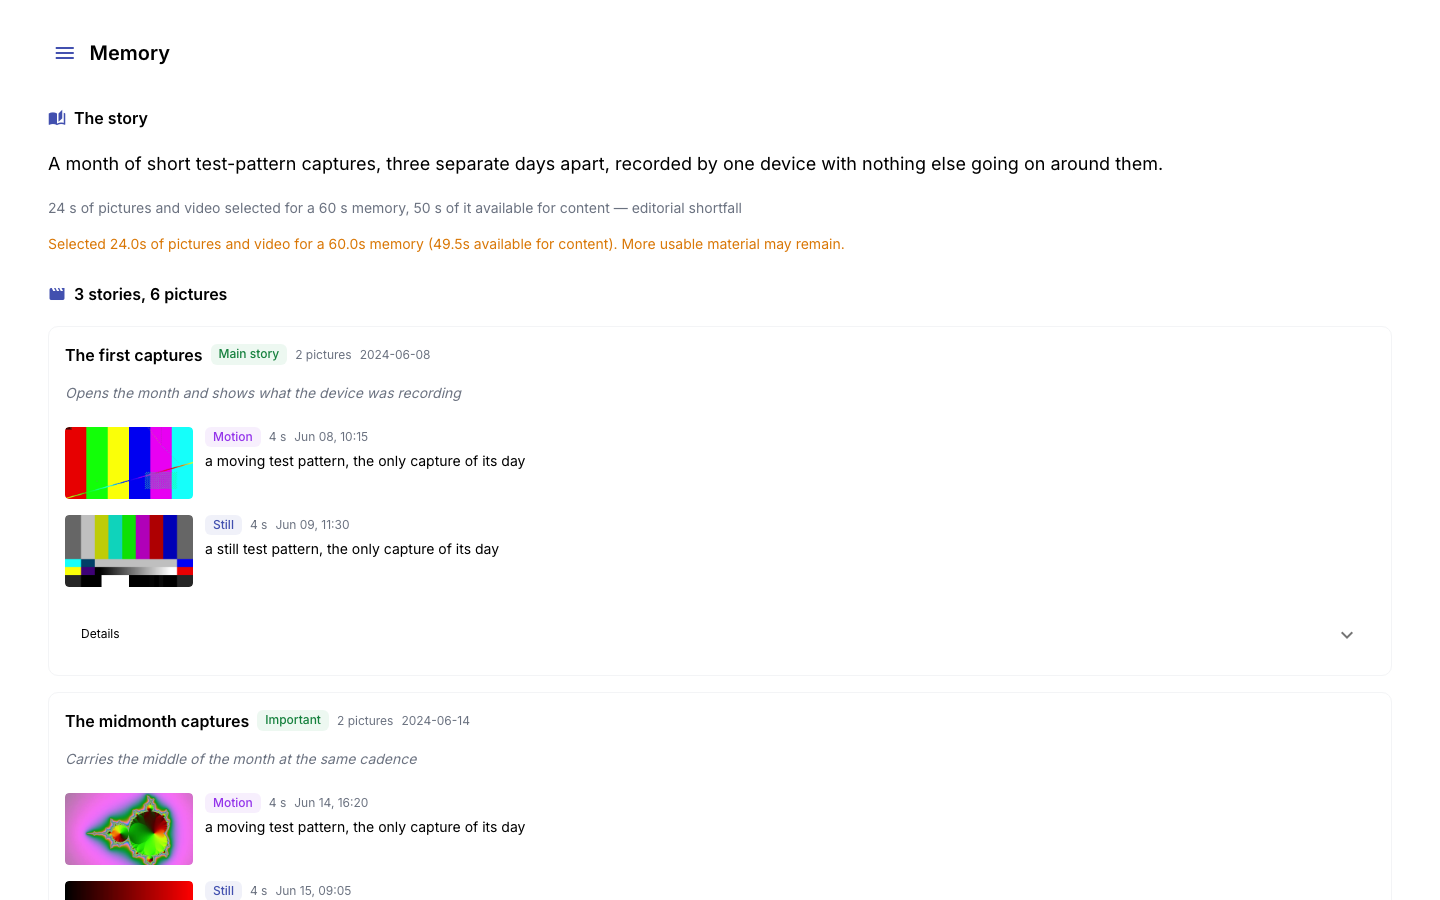
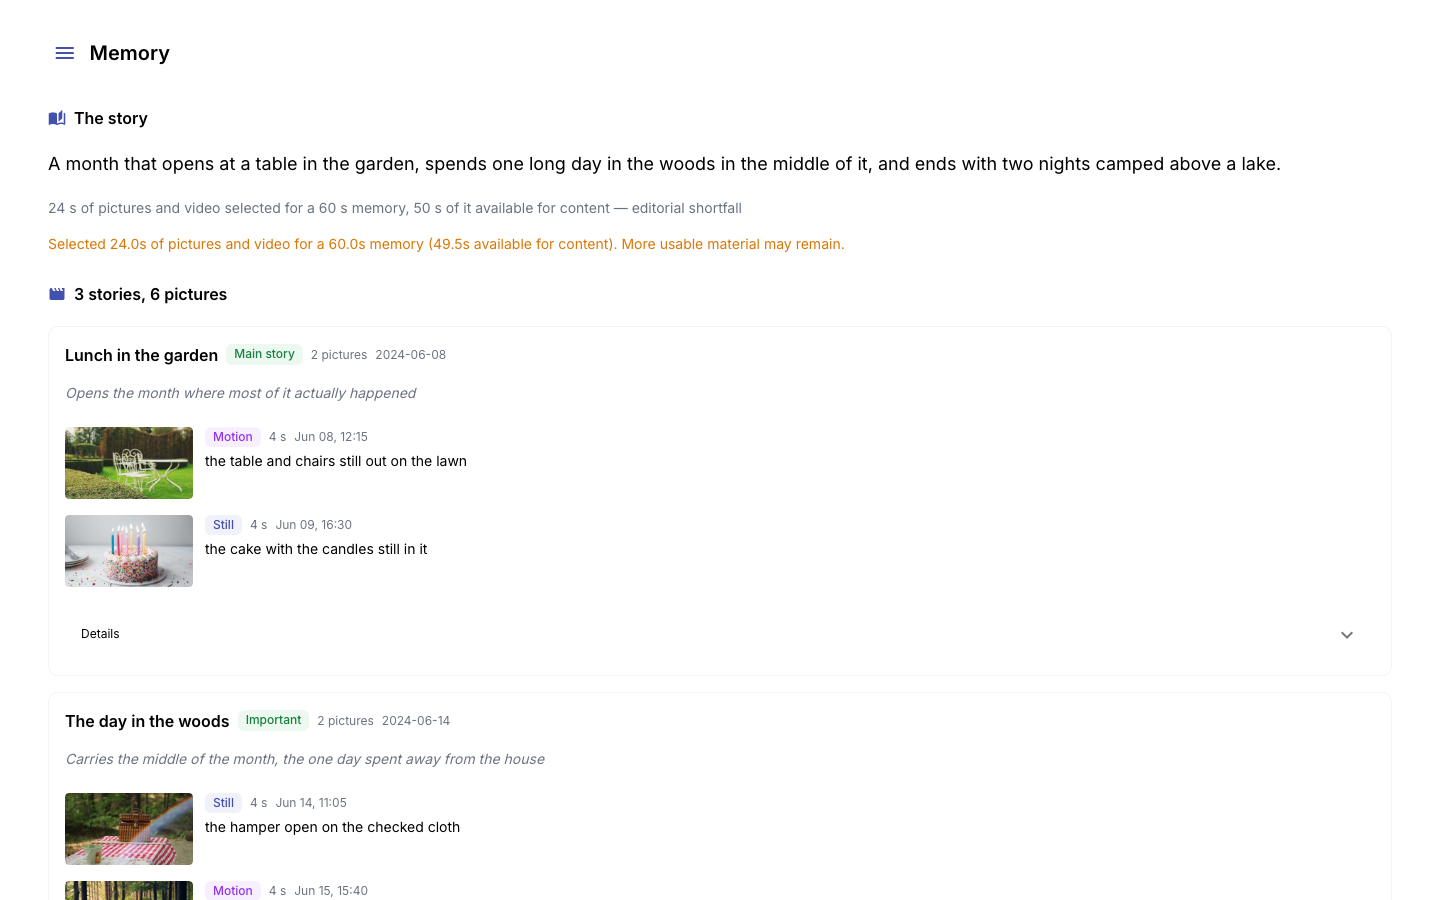
docs(screenshots): recapture the walkthrough over the new library
The story view is the screenshot the docs lead with, and it advertised
the product next to SMPTE colour bars and a mandelbrot. It now shows a
garden table under "the table and chairs still out on the lawn" and a
lit birthday cake under "the cake with the candles still in it".

The capture run also had to be fixed to get here: waiting for the
editing stage matched two elements, because the detail panel echoes the
string the active phase row shows, and the wait failed the moment the
panel caught up. Scoped to .cut-phase-rows, which is how the memory-page
test already reads the same thing.

Only the eight frames that show library content moved; the brief,
settings and login frames are unchanged.

Claude-Session: https://claude.ai/code/session_01S6wU6YdHCQYhFWoq4Huuqc

diff --git a/tests/e2e/test_screenshots.py b/tests/e2e/test_screenshots.py
@@ -113,7 +113,10 @@ def test_capture_memory_walkthrough(
     page.evaluate("window.scrollTo(0, 0)")
 
     page.get_by_role("button", name="Cut", exact=True).click()
-    expect(page.get_by_text(_EDITING_STAGE)).to_be_visible(timeout=60_000)
+    # WHY .cut-phase-rows: the detail panel echoes the same stage string, and an
+    # unscoped match is two elements the moment that panel has caught up.
+    active_stage = page.locator(".cut-phase-rows").get_by_text(_EDITING_STAGE)
+    expect(active_stage).to_be_visible(timeout=60_000)
     _save(page, d, _name("memory-cutting", theme))
 
     expect(page.get_by_text(_THESIS)).to_be_visible(timeout=120_000)
